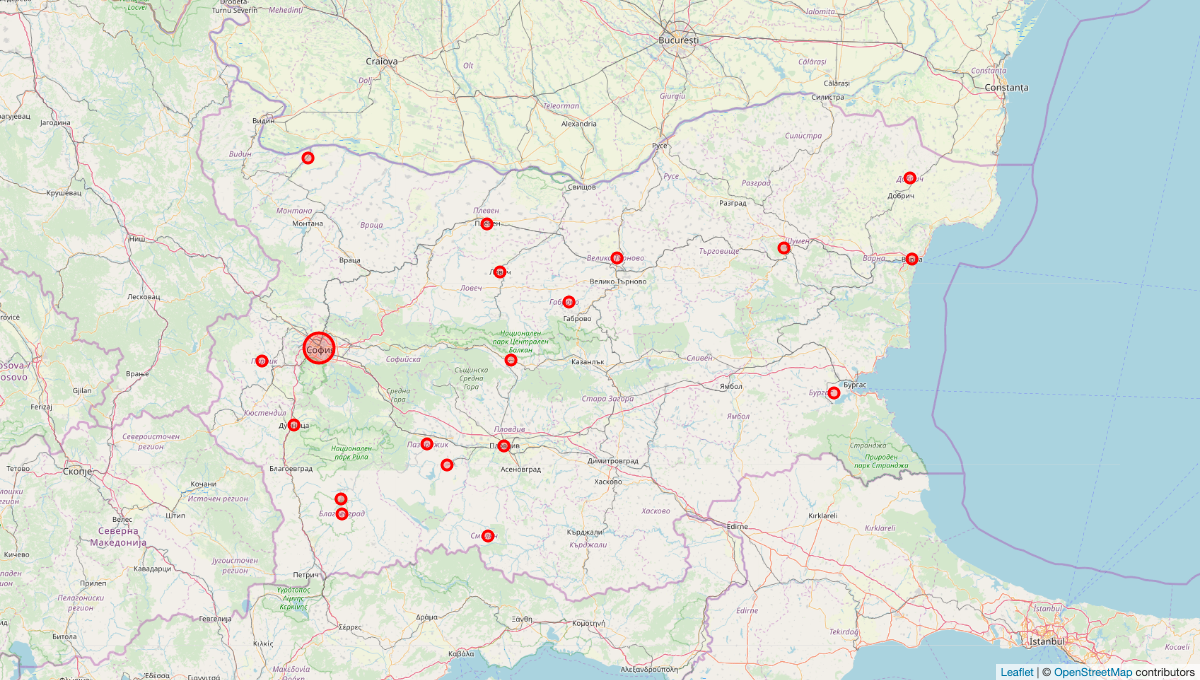
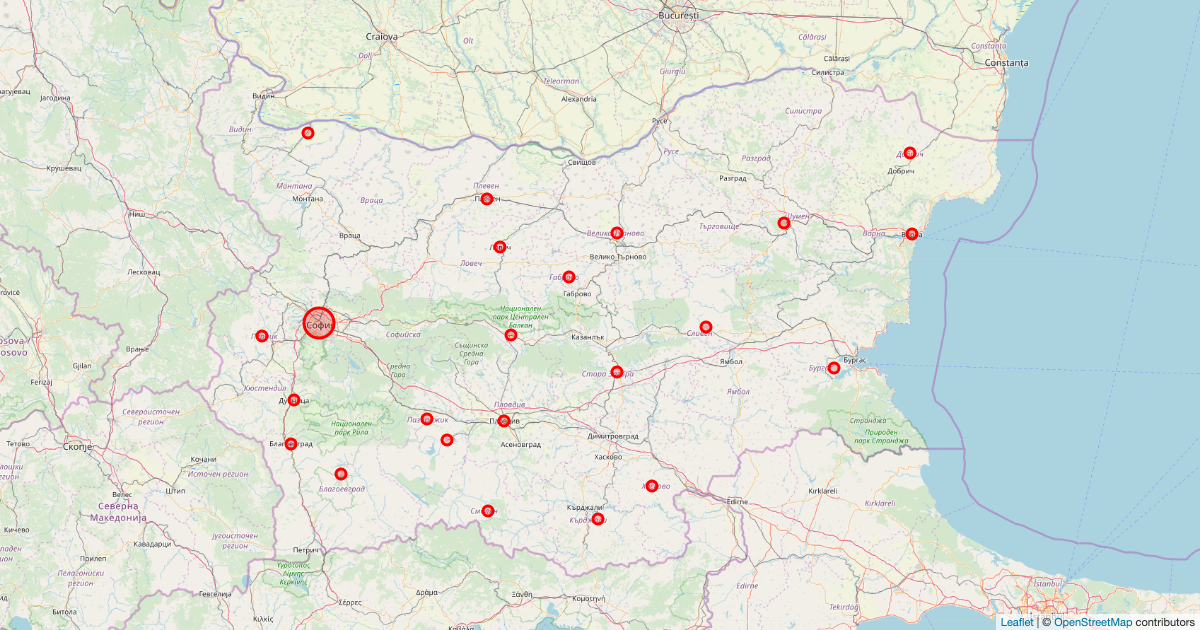
Added data for 26.03

Changed region(s): [[0.0, 0.0, 1.0, 1.0], [0.8942, 0.0, 0.9558, 0.0302]]

diff --git a/components/OpenGraph/CasesLineChartImage.js b/components/OpenGraph/CasesLineChartImage.js
@@ -15,7 +15,7 @@ const CasesLineChartImage = () => {
   ];
 
   return (
-    <Row className="map-container align-items-center" noGutters>
+    <Row className="chart-container align-items-center" noGutters>
       <Col>
         <div className="mx-auto" style={{ width: '1059px', height: '600px' }}>
           <CasesLineChart data={lineChartData} width="1059px" height="600px" />
@@ -29,7 +29,7 @@ const CasesLineChartImage = () => {
             padding: 0;
           }
 
-          .map-container {
+          .chart-container {
             width: 1200px;
             height: 630px;
           }

diff --git a/open-graph-screenshot.js b/open-graph-screenshot.js
@@ -30,13 +30,13 @@ const takeScreenshot = async ({
 takeScreenshot({
   url: 'http://localhost:3000/open-graph-linechart',
   width: 1200,
-  height: 680,
+  height: 630,
   path: './public/static/images/open_graph_linechart.png',
 });
 
 takeScreenshot({
   url: 'http://localhost:3000/open-graph-map',
   width: 1200,
-  height: 680,
+  height: 630,
   path: './public/static/images/open_graph_map.png',
 });

diff --git a/components/OpenGraph/MapImage.js b/components/OpenGraph/MapImage.js
@@ -21,7 +21,7 @@ const MapImage = () => (
 
         .map-container {
           width: 1200px;
-          height: 680px;
+          height: 630px;
         }
       `}
     </style>
